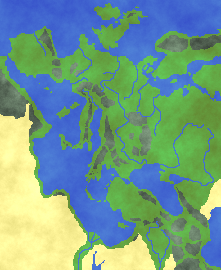
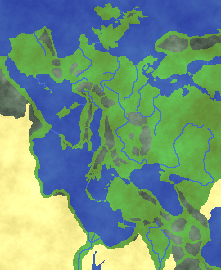
added attacker and defender modifiers per terrain

diff --git a/main.py b/main.py
@@ -15,7 +15,7 @@ Config.set('input', 'mouse', 'mouse,multitouch_on_demand')
 Config.set('graphics', 'window_state', 'maximized')
 
 import config
-from const import TERRAIN, SPEED, POP_VAL, ENTER_SPEED, DRAW_ALPHA
+from const import TERRAIN, SPEED, POP_VAL, ENTER_SPEED, ATTACK_MOD, DEFENCE_MOD, DRAW_ALPHA
 import utils
 
 
@@ -227,8 +227,14 @@ class GameApp(App):
                     enemy_armies = []
                 else:
                     enemy_armies = [uid for uid, coord in self.armies[enemy_pid].items() if coord == (x, y)]
+                terrain = self.territories[allied_coord[0], allied_coord[1], 0]
                 attacker_roll = sum(random.randint(0, config.BATTLE_MAX_ROLL) for _ in allied_armies)
+                attacker_roll = round(attacker_roll * TERRAIN[terrain].get(ATTACK_MOD, 1))
+                terrain = self.territories[x, y, 0]
                 defender_roll = (sum(random.randint(0, config.BATTLE_MAX_ROLL) for _ in enemy_armies))
+                defender_roll = round(defender_roll * TERRAIN[terrain].get(DEFENCE_MOD, 1))
+                if defender_roll:
+                    print()
                 if attacker_roll > defender_roll:  # Win for attacker
                     if enemy_armies:
                         enemy_aid = enemy_armies.pop(0)

diff --git a/const.py b/const.py
@@ -9,6 +9,8 @@ FOREST = 6
 SPEED = 0
 POP_VAL = 1
 ENTER_SPEED = 2
+DEFENCE_MOD = 3
+ATTACK_MOD = 4
 
 MAP = {
     (0, 255, 0): GRASS,
@@ -32,15 +34,21 @@ TERRAIN = {
     SEA_ROUTE: {
         SPEED: 1.0,
         POP_VAL: 0.0,
-        ENTER_SPEED: 0.07
+        ENTER_SPEED: 0.07,
+        ATTACK_MOD: 0.5,
+        DEFENCE_MOD: 0.5
     },
     BRIDGE: {
         SPEED: 0.7,
-        POP_VAL: 0.0
+        POP_VAL: 0.0,
+        ATTACK_MOD: 0.5,
+        DEFENCE_MOD: 2.0
     },
     MOUNTAIN: {
         SPEED: 0.0,
-        POP_VAL: 0.0
+        POP_VAL: 0.0,
+        ATTACK_MOD: 1.5,
+        DEFENCE_MOD: 2.0
     },
     DESERT: {
         SPEED: 0.2,
@@ -48,13 +56,15 @@ TERRAIN = {
     },
     FOREST: {
         SPEED: 0.2,
-        POP_VAL: 0.5
+        POP_VAL: 0.5,
+        ATTACK_MOD: 1.5,
+        DEFENCE_MOD: 1.5
     },
 }
 
 TERRAIN_COLORS = {
     GRASS: ((100, 170, 70), (102, 108, 35)),
-    SEA: ((70, 110, 210), (50, 70, 200)),
+    SEA: ((60, 90, 175), (40, 55, 160)),
     SEA_ROUTE: ((70, 110, 210), (60, 80, 200)),
     BRIDGE: ((115, 74, 29), (89, 58, 23)),
     MOUNTAIN: ((100, 120, 100), (20, 20, 20)),
